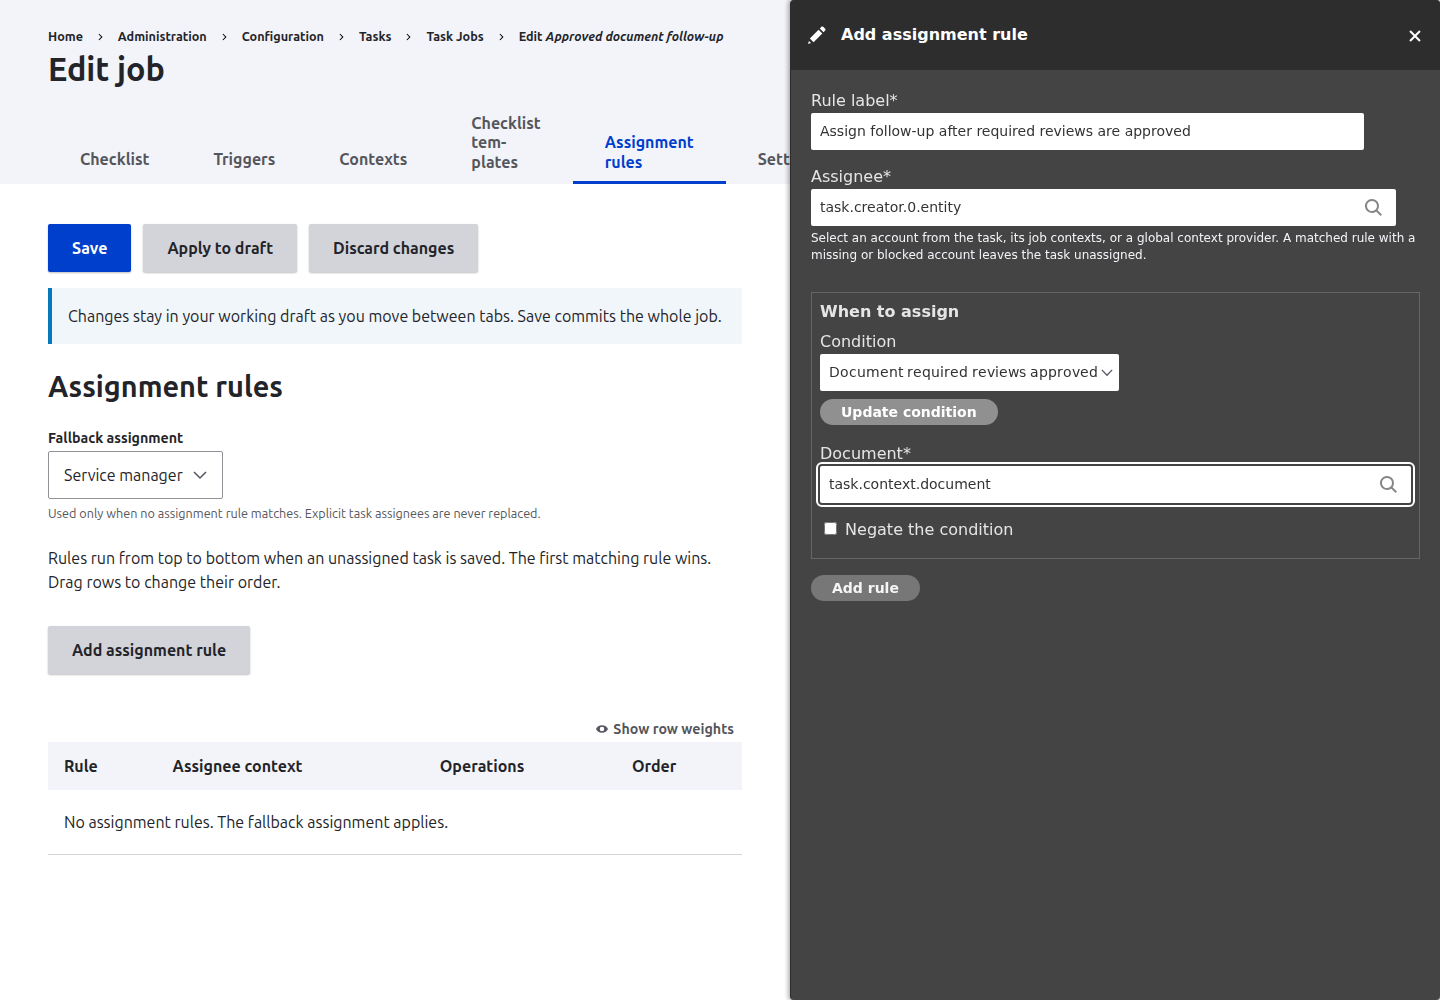
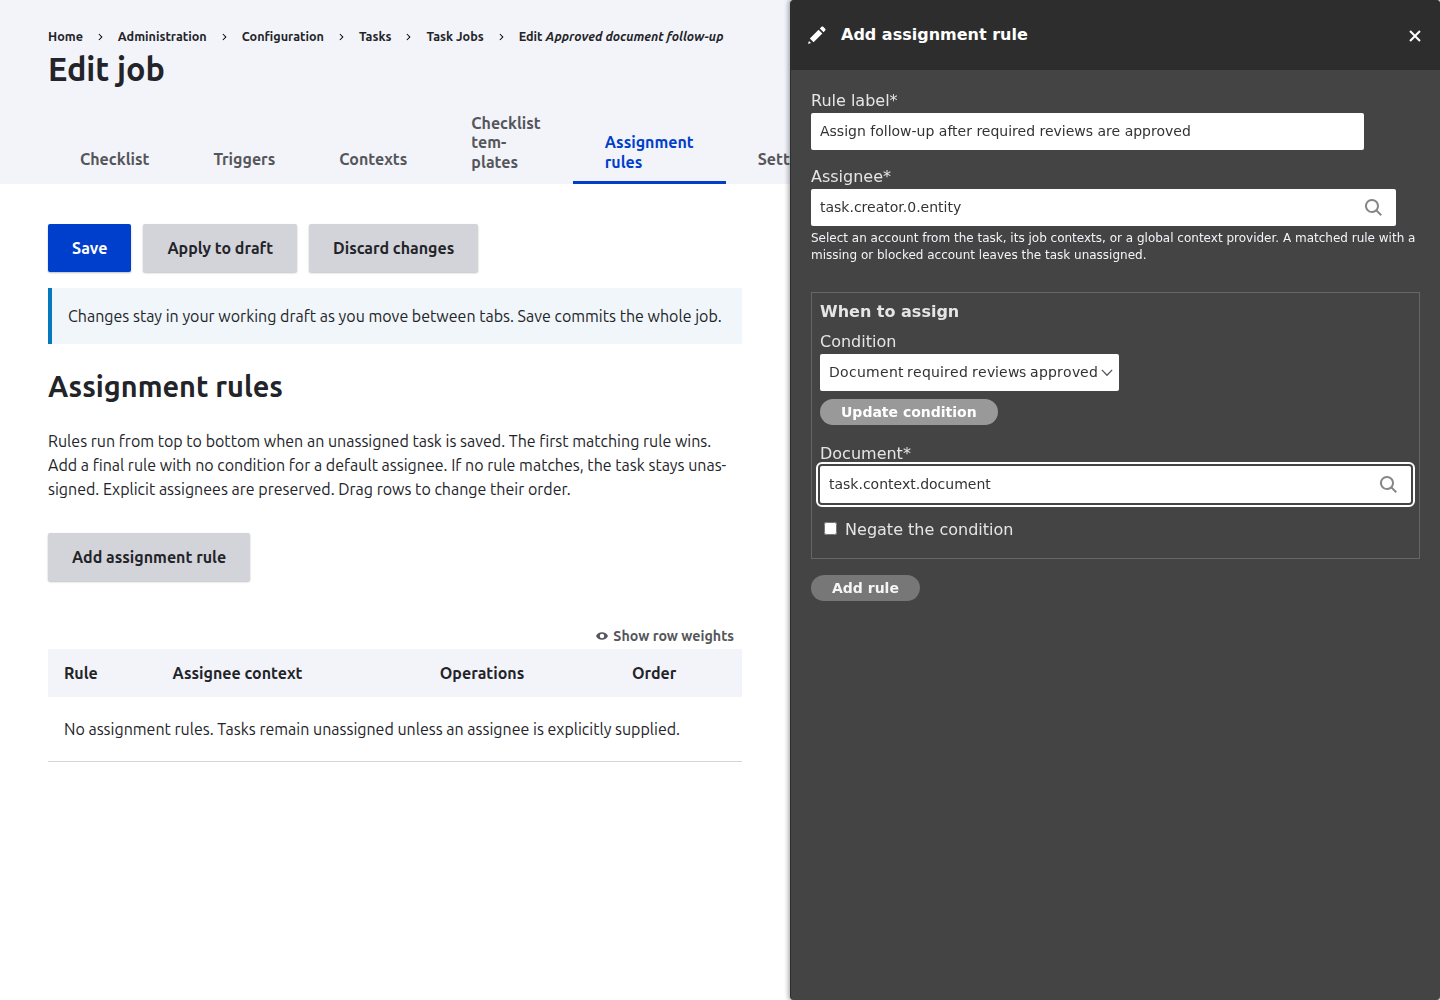
Replace separate job assignment fallback with unconditional rules

diff --git a/modules/data/task/contrib/job/tests/src/Kernel/AssignmentRulesTest.php b/modules/data/task/contrib/job/tests/src/Kernel/AssignmentRulesTest.php
@@ -49,7 +49,7 @@ class AssignmentRulesTest extends KernelTestBase {
     $creator->save();
     $reviewer = User::create(['name' => 'Reviewer', 'status' => 1]);
     $reviewer->save();
-    $job = Job::create(['id' => 'review', 'label' => 'Review', 'assignment' => 'creator']);
+    $job = Job::create(['id' => 'review', 'label' => 'Review']);
     $job->addContextDefinition('reviewer', ContextDefinition::create('entity:user')->setLabel('Reviewer')->setRequired(FALSE));
     $special = [
       'label' => 'Urgent reviewer',
@@ -80,7 +80,7 @@ class AssignmentRulesTest extends KernelTestBase {
     $job->set('assignment_rules', ['urgent' => $special])->save();
     $task = Task::create(['title' => 'Ordinary', 'job' => $job, 'creator' => $creator]);
     $task->save();
-    $this->assertEquals($creator->id(), $task->assignee->target_id, 'No match uses default assignment.');
+    $this->assertTrue($task->assignee->isEmpty(), 'No match leaves the task unassigned.');
     $task = Task::create(['title' => 'Urgent', 'job' => $job, 'creator' => $creator]);
     $task->save();
     $this->assertTrue($task->assignee->isEmpty(), 'Matched rule with missing account does not fall through.');
@@ -101,7 +101,7 @@ class AssignmentRulesTest extends KernelTestBase {
   public function testVersionedAssignment(): void {
     $creator = User::create(['name' => 'Creator', 'status' => 1]);
     $creator->save();
-    $job = Job::create(['id' => 'versions', 'label' => 'Versions', 'assignment' => 'unassigned']);
+    $job = Job::create(['id' => 'versions', 'label' => 'Versions']);
     $job->save();
     $draft = clone $job;
     $draft->addContextDefinition('draft_owner', ContextDefinition::create('entity:user')->setLabel('Draft owner'));
@@ -137,7 +137,7 @@ class AssignmentRulesTest extends KernelTestBase {
     $account = User::create(['name' => 'Operator', 'status' => 1]);
     $account->save();
     $this->container->get('current_user')->setAccount($account);
-    $job = Job::create(['id' => 'providers', 'label' => 'Providers', 'assignment' => 'unassigned']);
+    $job = Job::create(['id' => 'providers', 'label' => 'Providers']);
     $job->addContextDefinition('reviewer', ContextDefinition::create('entity:user')->setLabel('Reviewer')->setRequired(FALSE));
     $job->set('assignment_rules', [
       'reviewer' => [
@@ -172,6 +172,44 @@ class AssignmentRulesTest extends KernelTestBase {
     $this->assertEquals($reviewer->id(), $task->assignee->target_id);
     $this->expectException(PluginNotFoundException::class);
     $this->container->get('task_job.assignment_rules')->matches(['condition' => ['id' => 'missing_condition']], []);
+  }
+
+  /**
+   * Legacy defaults become final rules without replacing existing rule keys.
+   */
+  public function testLegacyAssignmentUpgrade(): void {
+    $storage = $this->container->get('config.storage');
+    $existing = [
+      'label' => 'Existing',
+      'condition' => ['id' => 'condition_constant:false'],
+      'context_mapping' => ['assignee' => 'task.creator.entity'],
+    ];
+    foreach (['legacy' => 'creator', 'legacy--v6' => 'service_manager', 'legacy--v6-dirty' => 'unassigned'] as $id => $policy) {
+      $storage->write('task_job.task_job.' . $id, [
+        'id' => $id,
+        'assignment' => $policy,
+        'assignment_rules' => ['default_assignment' => $existing],
+      ]);
+    }
+    $this->container->get('module_handler')->loadInclude('task_job', 'install');
+    task_job_update_8006();
+    foreach ([
+      'legacy' => 'task.creator.entity',
+      'legacy--v6' => 'task.service.entity.manager.entity',
+      'legacy--v6-dirty' => NULL,
+    ] as $id => $selector) {
+      $data = $storage->read('task_job.task_job.' . $id);
+      $this->assertArrayNotHasKey('assignment', $data);
+      $this->assertSame($existing, $data['assignment_rules']['default_assignment']);
+      $this->assertCount($selector ? 2 : 1, $data['assignment_rules']);
+      if ($selector) {
+        $rule = $data['assignment_rules']['default_assignment_'];
+        $this->assertSame($selector, $rule['context_mapping']['assignee']);
+        $this->assertArrayNotHasKey('condition', $rule);
+      }
+    }
+    task_job_update_8006();
+    $this->assertCount(2, $storage->read('task_job.task_job.legacy')['assignment_rules']);
   }
 
 }

diff --git a/modules/data/task/contrib/job/src/Form/JobEditForm.php b/modules/data/task/contrib/job/src/Form/JobEditForm.php
@@ -204,13 +204,10 @@ class JobEditForm extends JobForm {
     ];
     if ($section === 'settings') {
       $form = parent::form($form, $form_state);
-      unset($form['assignment']);
       $form['id'] = ['#type' => 'item', '#title' => $this->t('Machine name'), '#plain_text' => $this->entity->id()];
       $form = $this->buildResources($form, $form_state, $ajax_attributes);
     }
     elseif ($section === 'assignment') {
-      $settings = parent::form([], $form_state);
-      $form['assignment'] = $settings['assignment'];
       $form = $this->buildAssignmentRules($form, $form_state, $ajax_attributes);
     }
     else {
@@ -229,12 +226,10 @@ class JobEditForm extends JobForm {
    * Lists rules in evaluation order, using the existing draft/dialog workflow.
    */
   protected function buildAssignmentRules(array $form, FormStateInterface $form_state, array $ajax_attributes): array {
-    $form['assignment']['#title'] = $this->t('Fallback assignment');
-    $form['assignment']['#description'] = $this->t('Used only when no assignment rule matches. Explicit task assignees are never replaced.');
     $form['assignment_help'] = [
       '#type' => 'html_tag',
       '#tag' => 'p',
-      '#value' => $this->t('Rules run from top to bottom when an unassigned task is saved. The first matching rule wins. Drag rows to change their order.'),
+      '#value' => $this->t('Rules run from top to bottom when an unassigned task is saved. The first matching rule wins. Add a final rule with no condition for a default assignee. If no rule matches, the task stays unassigned. Explicit assignees are preserved. Drag rows to change their order.'),
     ];
     $form['add_assignment_rule'] = [
       '#type' => 'link',
@@ -245,7 +240,7 @@ class JobEditForm extends JobForm {
     $form['assignment_rules'] = [
       '#type' => 'table',
       '#header' => [$this->t('Rule'), $this->t('Assignee context'), $this->t('Operations'), $this->t('Order')],
-      '#empty' => $this->t('No assignment rules. The fallback assignment applies.'),
+      '#empty' => $this->t('No assignment rules. Tasks remain unassigned unless an assignee is explicitly supplied.'),
       '#tabledrag' => [['action' => 'order', 'relationship' => 'sibling', 'group' => 'assignment-rule-weight']],
     ];
     foreach (array_keys($this->entity->get('assignment_rules') ?: []) as $weight => $key) {
@@ -1021,7 +1016,7 @@ class JobEditForm extends JobForm {
   protected function copyFormValuesToEntity(EntityInterface $entity, array $form, FormStateInterface $form_state) {
     // Only the visible tab may change these values. Navigation controls and
     // incomplete trigger form arrays are not entity properties.
-    foreach (['label', 'description', 'assignment'] as $property) {
+    foreach (['label', 'description'] as $property) {
       if (isset($form[$property]) && $form_state->hasValue($property)) {
         $entity->set($property, $form_state->getValue($property));
       }

diff --git a/modules/data/task/tests/src/Kernel/TaskIntegrationTest.php b/modules/data/task/tests/src/Kernel/TaskIntegrationTest.php
@@ -72,7 +72,9 @@ class TaskIntegrationTest extends KernelTestBase {
       ],
     ]);
     $job->save();
-    $this->assertSame('service_manager', $job->get('assignment'));
+    $job->set('assignment_rules', [
+      ['label' => 'Service manager', 'context_mapping' => ['assignee' => 'task.service.entity.manager.entity']],
+    ])->save();
     $this->assertTrue($this->container->has('service.task_assignee_subscriber'));
     $this->assertEquals($manager->id(), $service->manager->target_id);
     $task = Task::create(['title' => 'Review request', 'job' => $job, 'service' => $service]);
@@ -191,7 +193,13 @@ class TaskIntegrationTest extends KernelTestBase {
     $creator->save();
     $explicit = User::create(['name' => 'explicit', 'status' => 1]);
     $explicit->save();
-    $job = Job::create(['id' => 'assign', 'label' => 'Assign', 'assignment' => 'creator']);
+    $job = Job::create([
+      'id' => 'assign',
+      'label' => 'Assign',
+      'assignment_rules' => [
+        ['label' => 'Creator', 'context_mapping' => ['assignee' => 'task.creator.entity']],
+      ],
+    ]);
     $job->save();
     $task = Task::create(['title' => 'Automatic', 'job' => $job, 'creator' => $creator]);
     $task->save();
@@ -199,8 +207,11 @@ class TaskIntegrationTest extends KernelTestBase {
     $task = Task::create(['title' => 'Explicit', 'job' => $job, 'creator' => $creator, 'assignee' => $explicit]);
     $task->save();
     $this->assertEquals($explicit->id(), $task->assignee->target_id);
-    $job->set('assignment', 'unassigned')->save();
-    $task = Task::create(['title' => 'Unassigned', 'job' => $job, 'creator' => $creator]);
+    $job->set('assignment_rules', [])->save();
+    ServiceType::create(['id' => 'assignment', 'label' => 'Assignment'])->save();
+    $service = Service::create(['type' => 'assignment', 'label' => 'Managed service', 'manager' => $creator]);
+    $service->save();
+    $task = Task::create(['title' => 'Unassigned', 'job' => $job, 'creator' => $creator, 'service' => $service]);
     $task->save();
     $this->assertTrue($task->assignee->isEmpty());
   }

diff --git a/modules/data/task/contrib/job/tests/src/Functional/TaskJobEditFormTest.php b/modules/data/task/contrib/job/tests/src/Functional/TaskJobEditFormTest.php
@@ -93,7 +93,10 @@ class TaskJobEditFormTest extends BrowserTestBase {
       'context[_add_new][type]' => 'entity:task',
     ], 'Add');
     $this->switchTab([], 'Assignment rules');
-    $this->switchTab(['assignment' => 'creator'], 'Checklist');
+    $this->assertSession()->fieldNotExists('assignment');
+    $this->clickLink('Add assignment rule');
+    $this->submitForm(['label' => 'Creator', 'context_mapping[assignee]' => 'task.creator.entity'], 'Add rule');
+    $this->switchTab([], 'Checklist');
     $this->clickLink('Add Checklist Item');
     $this->clickLink('Simple Checkbox');
     $this->submitForm(['name' => 'review', 'label' => 'Review replacement work'], 'Add');
@@ -107,7 +110,7 @@ class TaskJobEditFormTest extends BrowserTestBase {
     $this->assertSession()->pageTextContains('The job has been saved.');
     $job = $this->saved();
     $this->assertSame('Draft label', $job->label());
-    $this->assertSame('creator', $job->get('assignment'));
+    $this->assertSame('task.creator.entity', array_values($job->get('assignment_rules'))[0]['context_mapping']['assignee']);
     $this->assertSame('entity:task', $job->getContextDefinition('document')->getDataType());
     $this->assertSame('Review replacement work', $job->getChecklistItems()['review']['label']);
     $this->assertSame('invalidate', $job->getTriggersConfiguration()['replacement']['action']['configuration']['dependency_action']);

diff --git a/modules/data/task/contrib/job/src/EventSubscriber/AssignmentSubscriber.php b/modules/data/task/contrib/job/src/EventSubscriber/AssignmentSubscriber.php
@@ -10,7 +10,7 @@ use Drupal\user\Entity\User;
 use Symfony\Component\EventDispatcher\EventSubscriberInterface;
 
 /**
- * Applies a job's assignment rule before the service-level fallback.
+ * Applies the job's ordered rules without an implicit fallback.
  */
 class AssignmentSubscriber implements EventSubscriberInterface {
 
@@ -53,17 +53,8 @@ class AssignmentSubscriber implements EventSubscriberInterface {
       $event->stopPropagation();
       return;
     }
-    if ($job->get('assignment') === 'service_manager') {
-      return;
-    }
-    if ($job->get('assignment') === 'creator') {
-      $creator = $task->creator->entity;
-      if ($creator && $creator->isAuthenticated() && $creator->isActive()) {
-        $event->setAssignee($creator);
-      }
-    }
-    // "Unassigned" (and an unknown rule) must not fall through to the service
-    // manager. Other policies can be supplied by higher-priority subscribers.
+    // Jobs own assignment through their rules. An unconditional last rule
+    // supplies a default; no match must not invoke an implicit service policy.
     $event->stopPropagation();
   }
 

diff --git a/modules/data/task/contrib/job/src/Form/JobForm.php b/modules/data/task/contrib/job/src/Form/JobForm.php
@@ -43,18 +43,6 @@ class JobForm extends EntityForm {
       '#description' => $this->t('A description for the job. This will appear on the page when a user is selecting which task template to use. Task documentation should be included in the task description or in the checklist.'),
     ];
 
-    $form['assignment'] = [
-      '#type' => 'select',
-      '#title' => $this->t('Default assignment'),
-      '#options' => [
-        'service_manager' => $this->t('Service manager'),
-        'creator' => $this->t('Task creator'),
-        'unassigned' => $this->t('Leave unassigned'),
-      ],
-      '#default_value' => $this->entity->get('assignment') ?: 'service_manager',
-      '#description' => $this->t('Applies when the task has no explicit assignee. Only active user accounts are assigned.'),
-    ];
-
     return $form;
   }
 

diff --git a/modules/data/task/contrib/job/src/Entity/Job.php b/modules/data/task/contrib/job/src/Entity/Job.php
@@ -39,7 +39,6 @@ use Drupal\Core\Plugin\Context\ContextDefinitionInterface;
  *     "checklist_templates",
  *     "checklist_includes",
  *     "triggers",
- *     "assignment",
  *     "assignment_rules",
  *     "version",
  *     "version_of",
@@ -217,14 +216,7 @@ class Job extends ConfigEntityBase implements JobInterface, EntityWithPluginColl
   }
 
   /**
-   * The default assignment rule; explicit task assignees take precedence.
-   *
-   * @var string
-   */
-  protected $assignment = 'service_manager';
-
-  /**
-   * Ordered conditional assignments, evaluated before the default policy.
+   * Ordered assignments; a rule without conditions can supply the default.
    *
    * @var array
    */

diff --git a/modules/data/task/contrib/job/README.md b/modules/data/task/contrib/job/README.md
@@ -2,9 +2,8 @@
 
 The job editor has separate **Checklist**, **Triggers**, **Contexts**,
 **Checklist templates**, **Assignment rules**, and **Settings** tabs. Only the selected tab is built and
-rendered. Settings includes the label, description and resources. Assignment
-currently exposes the existing default rule; richer assignment rules are follow-up
-work. Named checklist templates support static inclusion in this slice.
+rendered. Settings includes the label, description and resources. Assignment rules
+are ordered, with an unconditional last rule providing any default assignee.
 
 ## Routes and local tasks
 
@@ -134,8 +133,9 @@ On saving an unassigned task, evaluate rules in their stored order. The first
 matching rule wins. Resolve its assignee through the core `context.handler`
 service, extended by Typed Data Plus. Assign only an active, authenticated user.
 If the matched rule's account is missing or blocked, leave the task unassigned;
-do not run another rule or the fallback. If no rule matches, retain the existing
-`assignment` policy: service manager, task creator, or leave unassigned.
+do not run another rule. If no rule matches, leave the task unassigned. A final
+rule with no condition supplies a default assignee; there is no separate fallback
+setting or implicit service-manager assignment for jobs.
 Existing task assignments and accounts selected by higher-priority subscribers
 are preserved. Clearing an assignee allows selection again on the next save;
 editing a job does not reassign already assigned tasks.
@@ -152,7 +152,6 @@ job during configuration; runtime values come from that task. Global providers
 remain available through `@provider:context` mappings. For example:
 
 ```yaml
-assignment: service_manager
 assignment_rules:
   urgent_review:
     label: Urgent work to the reviewer
@@ -183,12 +182,14 @@ invalid plugin configuration or invalid selectors raise an error rather than
 silently falling back to a different person. Condition plugin dependencies are
 included in the job's configuration dependencies.
 
-`AssignmentRulesTest` covers real task saves, first-match order, default fallback,
+`AssignmentRulesTest` covers real task saves, first-match order, unconditional final rules,
 blocked/missing accounts, explicit assignments, core conditions, groups, global
 contexts, pinned versions, dirty overrides and unsaved authoring contexts.
 `TaskJobEditFormTest::testAssignmentRuleEditor` covers the editor, shared drafts,
-reordering, removal, Save and Discard. Existing jobs need no data migration:
-`assignment_rules` defaults to an empty sequence.
+reordering, removal, Save and Discard. `task_job_update_8006()` converts saved
+legacy creator/service-manager policies into final unconditional rules, including
+named versions and dirty overlays. Legacy unassigned policies become no rule.
+New jobs start with no assignment rules. Re-export updated configuration.
 
 ## Add checklist template item
 

diff --git a/docs/screenshots/document-review-condition/README.md b/docs/screenshots/document-review-condition/README.md
@@ -1,9 +1,12 @@
-# Current-review condition
+# Current-review condition and ordered assignments
 
-Actual Playwright Chromium capture from the local Drupal 10 DDEV site. The new
-native condition is selected in a fictional job's assignment-rule form, with the
-standard Typed Data Plus document selector and normal negation control.
+Actual Playwright Chromium captures from the local Drupal 10 DDEV site, opened
+and visually inspected. Fictional job configuration is used throughout.
 
-The image was opened and visually inspected. The browser then saved the rule to
-the job draft and verified it appeared in the assignment table. Kernel tests cover
-condition execution, review outcomes as contexts, new revisions and denied access.
+- `editor.png`: native document-review condition with the standard Typed Data
+  Plus document selector, and no separate fallback assignment setting.
+- `unconditional.png`: a final assignment rule with "No condition (always)".
+- `rules.png`: the saved draft's conditional rule followed by that default rule.
+
+The browser verified the fallback field is absent, selected the native condition,
+verified the Typed Data Plus selector, and saved both rules into the job draft.
